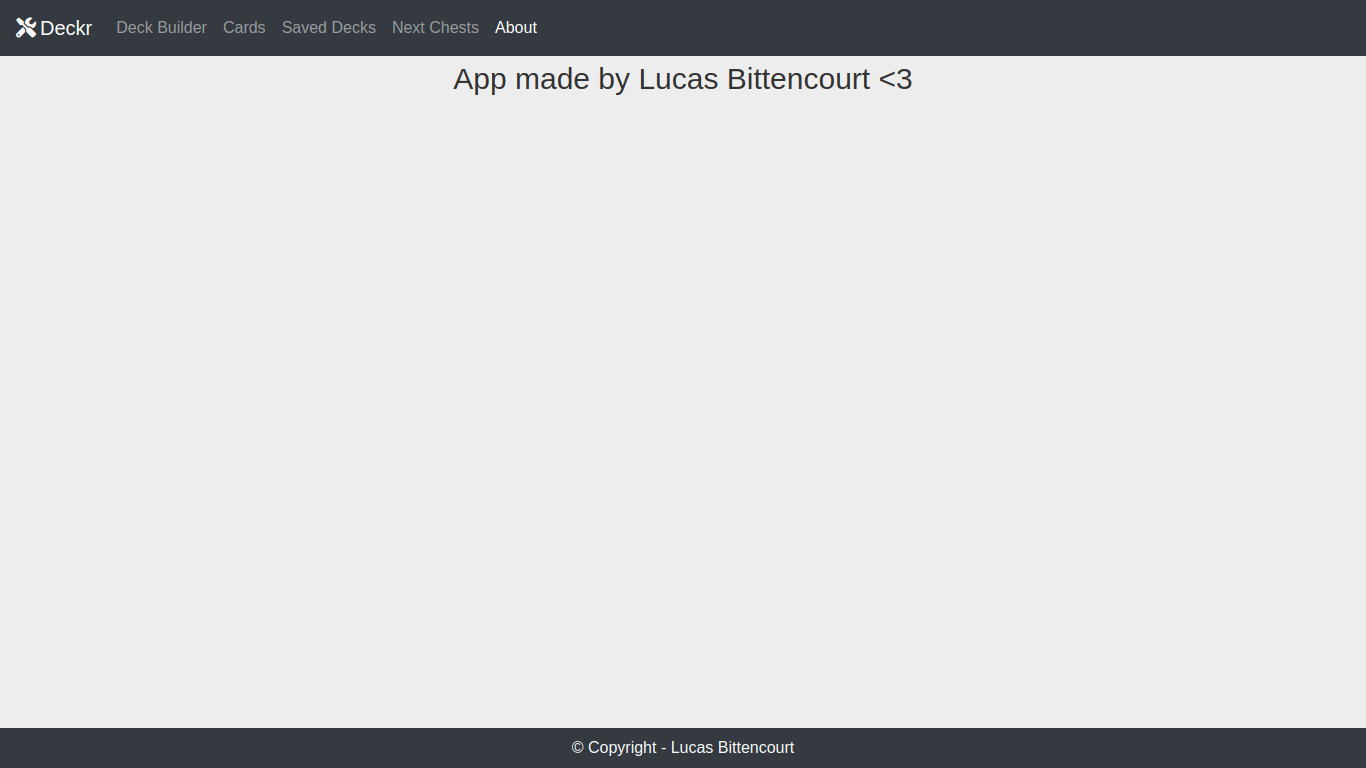
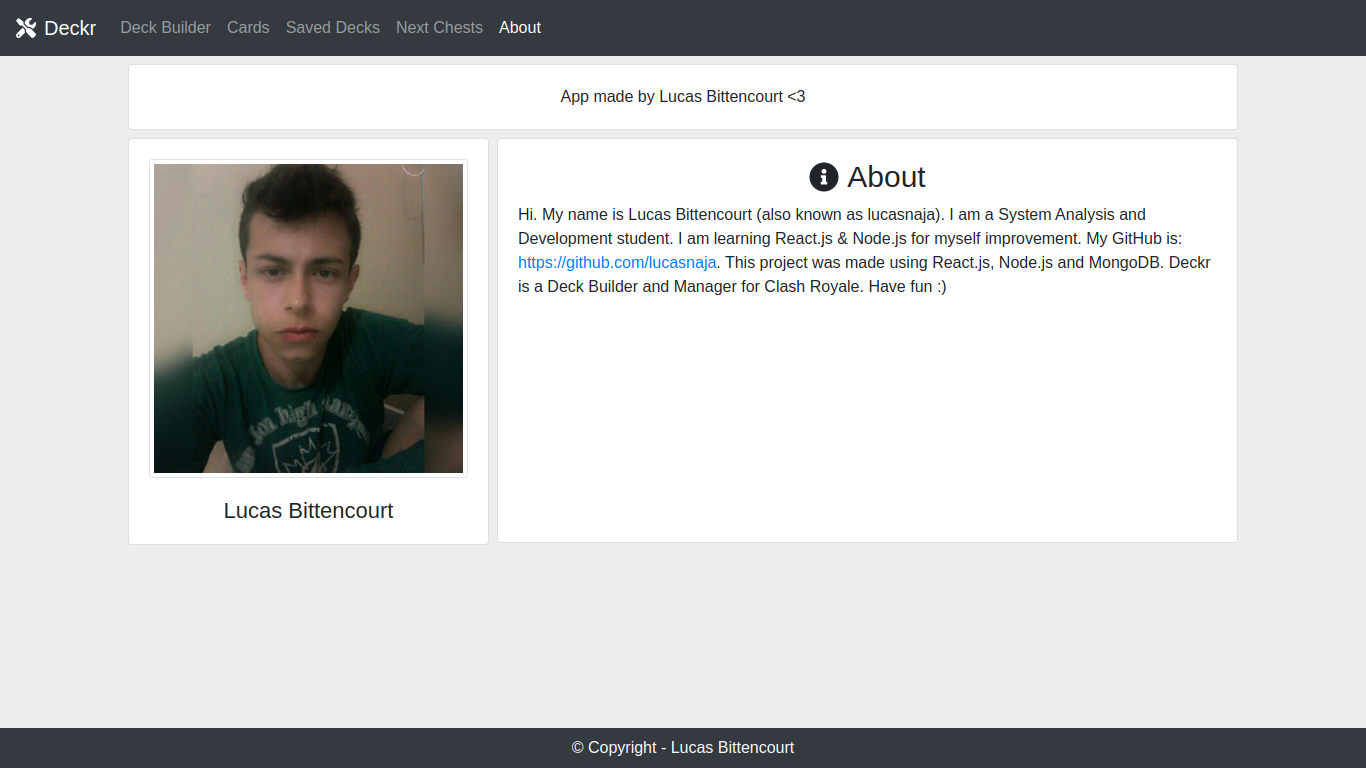
about page improvements

diff --git a/packages/frontend/src/pages/About/index.js b/packages/frontend/src/pages/About/index.js
@@ -1,6 +1,10 @@
 import React, { useEffect } from 'react';
+import { Container, Card, Row, Col } from 'react-bootstrap';
+import { FaInfoCircle } from 'react-icons/fa';
 import Header from '../../components/Header';
 import Footer from '../../components/Footer';
+import lucas from './images/lucas_bittencourt.jpg';
+import './styles.css';
 
 export default () => {
    useEffect(() => {
@@ -12,16 +16,71 @@ export default () => {
          <Header page="about" />
 
          <main>
-            <p
-               style={{
-                  fontSize: 30,
-                  color: '#333',
-                  textAlign: 'center',
-                  marginBottom: 0,
-               }}
-            >
-               App made by Lucas Bittencourt &lt;3
-            </p>
+            <Container className="mt-2">
+               <Card body>
+                  <p className="text-center mb-0">
+                     App made by Lucas Bittencourt &lt;3
+                  </p>
+               </Card>
+
+               <Row>
+                  <Col md={4} lg={4} className="pr-md-1">
+                     <Card body className="mt-2">
+                        <Card.Img
+                           src={lucas}
+                           className="img-thumbnail img-fluid"
+                           alt="Lucas Bittencourt"
+                        />
+
+                        <Card.Title
+                           className="text-center pb-0 m-0"
+                           style={{
+                              fontSize: 22,
+                              paddingTop: 20,
+                           }}
+                        >
+                           Lucas Bittencourt
+                        </Card.Title>
+                     </Card>
+                  </Col>
+
+                  <Col md={8} lg={8} className="pl-md-1">
+                     <Card body className="card-about mt-2">
+                        <Card.Title
+                           className="text-center"
+                           style={{
+                              fontSize: 30,
+                              paddingBottom: 0,
+                              margin: 0,
+                           }}
+                        >
+                           <FaInfoCircle
+                              className="position-relative mr-2"
+                              style={{ top: -2 }}
+                           />
+                           About
+                        </Card.Title>
+
+                        <Card.Text className="mt-2">
+                           Hi. My name is Lucas Bittencourt (also known as
+                           lucasnaja). I am a System Analysis and Development
+                           student. I am learning React.js & Node.js for myself
+                           improvement. My GitHub is:{' '}
+                           <a
+                              href="https://github.com/lucasnaja"
+                              target="_blank"
+                              rel="noopener noreferrer"
+                           >
+                              https://github.com/lucasnaja
+                           </a>
+                           . This project was made using React.js, Node.js and
+                           MongoDB. Deckr is a Deck Builder and Manager for
+                           Clash Royale. Have fun :)
+                        </Card.Text>
+                     </Card>
+                  </Col>
+               </Row>
+            </Container>
          </main>
 
          <Footer />

diff --git a/packages/frontend/src/pages/About/styles.css b/packages/frontend/src/pages/About/styles.css
@@ -1,0 +1,17 @@
+@media (min-width: 768px) {
+   .card-about {
+      height: 265px;
+   }
+}
+
+@media (min-width: 993px) {
+   .card-about {
+      height: 344px;
+   }
+}
+
+@media (min-width: 1126px) {
+   .card-about {
+      height: 405px;
+   }
+}

diff --git a/packages/frontend/src/components/Notification/index.js b/packages/frontend/src/components/Notification/index.js
@@ -1,6 +1,6 @@
 import React from 'react';
 import { Toast } from 'react-bootstrap';
-import icon from './favicon.png';
+import icon from './images/favicon.png';
 import './styles.css';
 
 const Container = ({ children }) => (
